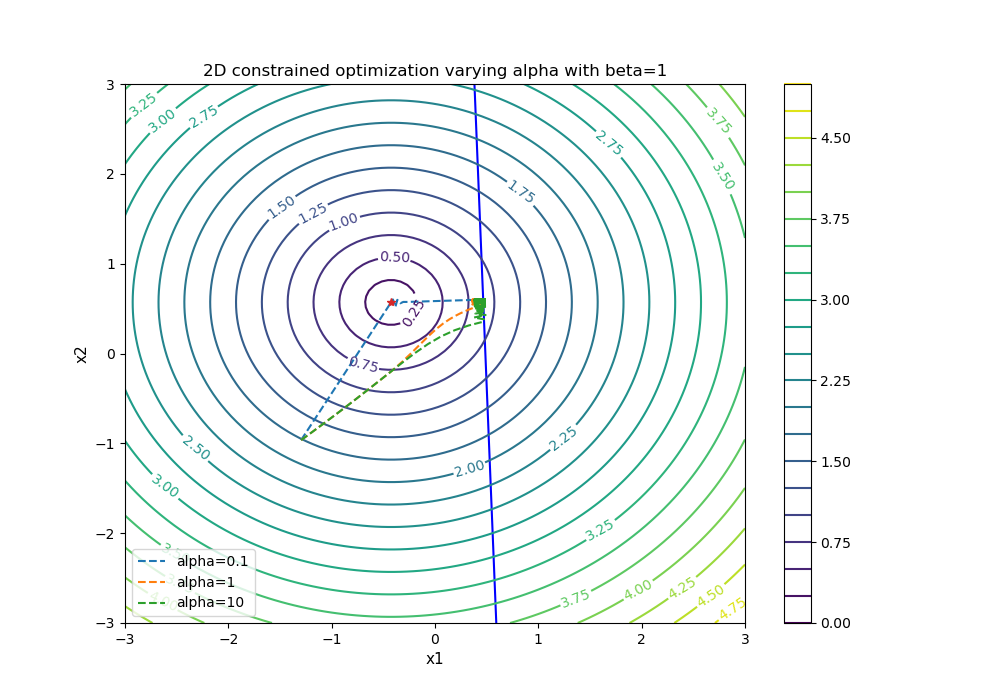
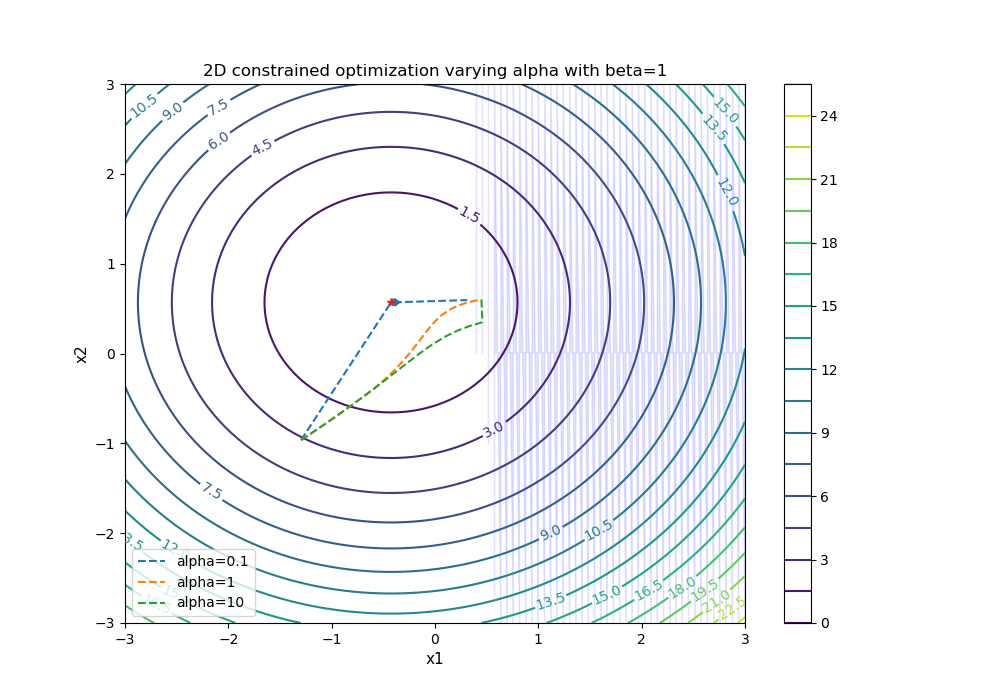
add halfspace shading on experiment 1

diff --git a/2DToy.py b/2DToy.py
@@ -4,7 +4,7 @@ import matplotlib.pyplot as plt
 import numpy as np
 
 def f1(theta1,theta2,theta_star):
-    return torch.sqrt((theta1 - theta_star[0])**2 + (theta2-theta_star[1])**2)
+    return torch.sqrt((theta1 - theta_star[0])**2 + (theta2-theta_star[1])**2)**2
 
 def f(theta,theta_star):
     return torch.linalg.norm(theta-theta_star,ord=2)
@@ -18,13 +18,13 @@ def Toy2DExperiment(theta_init,theta_star,a,b,c,gamma=.1):
     def dynamic_barrier_gradient_descent(alpha,beta):
         thetas = [theta_init]
         theta = thetas[0]
-        for i in range(100):
+        for i in range(200):
             grad_f = grad(f(theta,theta_star),theta)[0]
             grad_g = grad(g(theta,a,b),theta)[0]
 
-            phi = min(alpha * (g(theta,a,b)-c),beta * torch.linalg.norm(grad_g,ord=2))
+            phi = min(alpha * (g(theta,a,b)-c),beta * torch.linalg.norm(grad_g,ord=2)**2)
 
-            lam = max(0,(phi-torch.dot(grad_f,grad_g))/torch.linalg.norm(grad_g,ord=2))
+            lam = max(0,(phi-torch.dot(grad_f,grad_g))/torch.linalg.norm(grad_g,ord=2)**2)
 
             delta = grad_f+lam*grad_g
 
@@ -47,7 +47,8 @@ def Toy2DExperiment(theta_init,theta_star,a,b,c,gamma=.1):
     ax = fig.add_subplot(111)
 
     # Add the halfspace to the plot
-    cs = ax.contour(X1, X2, Z2, levels=[0],colors=['b'])
+    # cs = ax.contour(X1, X2, Z2, levels=[0],colors=['b'])
+    ax.fill_between(X1.flatten(), X2.flatten(), c, where=Z2.flatten() <= c, color='b', alpha=0.1)
     
     # Add the contour plot of f
     contours = plt.contour(X1, X2, Z1, 20)
@@ -73,14 +74,13 @@ def Toy2DExperiment(theta_init,theta_star,a,b,c,gamma=.1):
     Z1 = f1(X1,X2,theta_star)
 
     # Compute the halfspace
-    Z2 = (c - a[0]*X1 - a[1]*X2 - b)
-    
+    Z2 = (a[0]*X1 + a[1]*X2 + b)
     
     fig = plt.figure(figsize=(10, 7))
     ax = fig.add_subplot(111)
 
     # Add the halfspace to the plot
-    cs = ax.contour(X1, X2, Z2, levels=[0],colors=['b'])
+    ax.fill_between(X1.flatten(), X2.flatten(), c, where=Z2.flatten() <= c, color='b', alpha=0.1)
     
     # Add the contour plot of f
     contours = plt.contour(X1, X2, Z1, 20)
@@ -99,24 +99,8 @@ def Toy2DExperiment(theta_init,theta_star,a,b,c,gamma=.1):
     plt.legend(loc="lower left")
     plt.savefig('experiment_1b')
     #######################
-    # Experiment 1d
-    def dynamic_barrier_gradient_descent_with_optimizer():
-        thetas = [theta_init]
-        theta = thetas[0]
-        for i in range(100):
-            grad_f = grad(f(theta,theta_star),theta)[0]
-            grad_g = grad(g(theta,a,b),theta)[0]
-
-            phi = min(alpha * (g(theta,a,b)-c),beta * torch.linalg.norm(grad_g,ord=2))
-
-            lam = max(0,(phi-torch.dot(grad_f,grad_g))/torch.linalg.norm(grad_g,ord=2))
-
-            delta = grad_f+lam*grad_g
-
-            theta = theta - gamma * delta
-            thetas.append(theta)
-        return thetas
-
+    # Experiment 1c
+    
 
 
 
@@ -124,6 +108,8 @@ def Toy2DExperiment(theta_init,theta_star,a,b,c,gamma=.1):
 torch.manual_seed(993)
 
 theta = torch.randn(2,requires_grad=True)-1
+
+
 theta_star = torch.randn(2)
 
 a = torch.randn(2)
